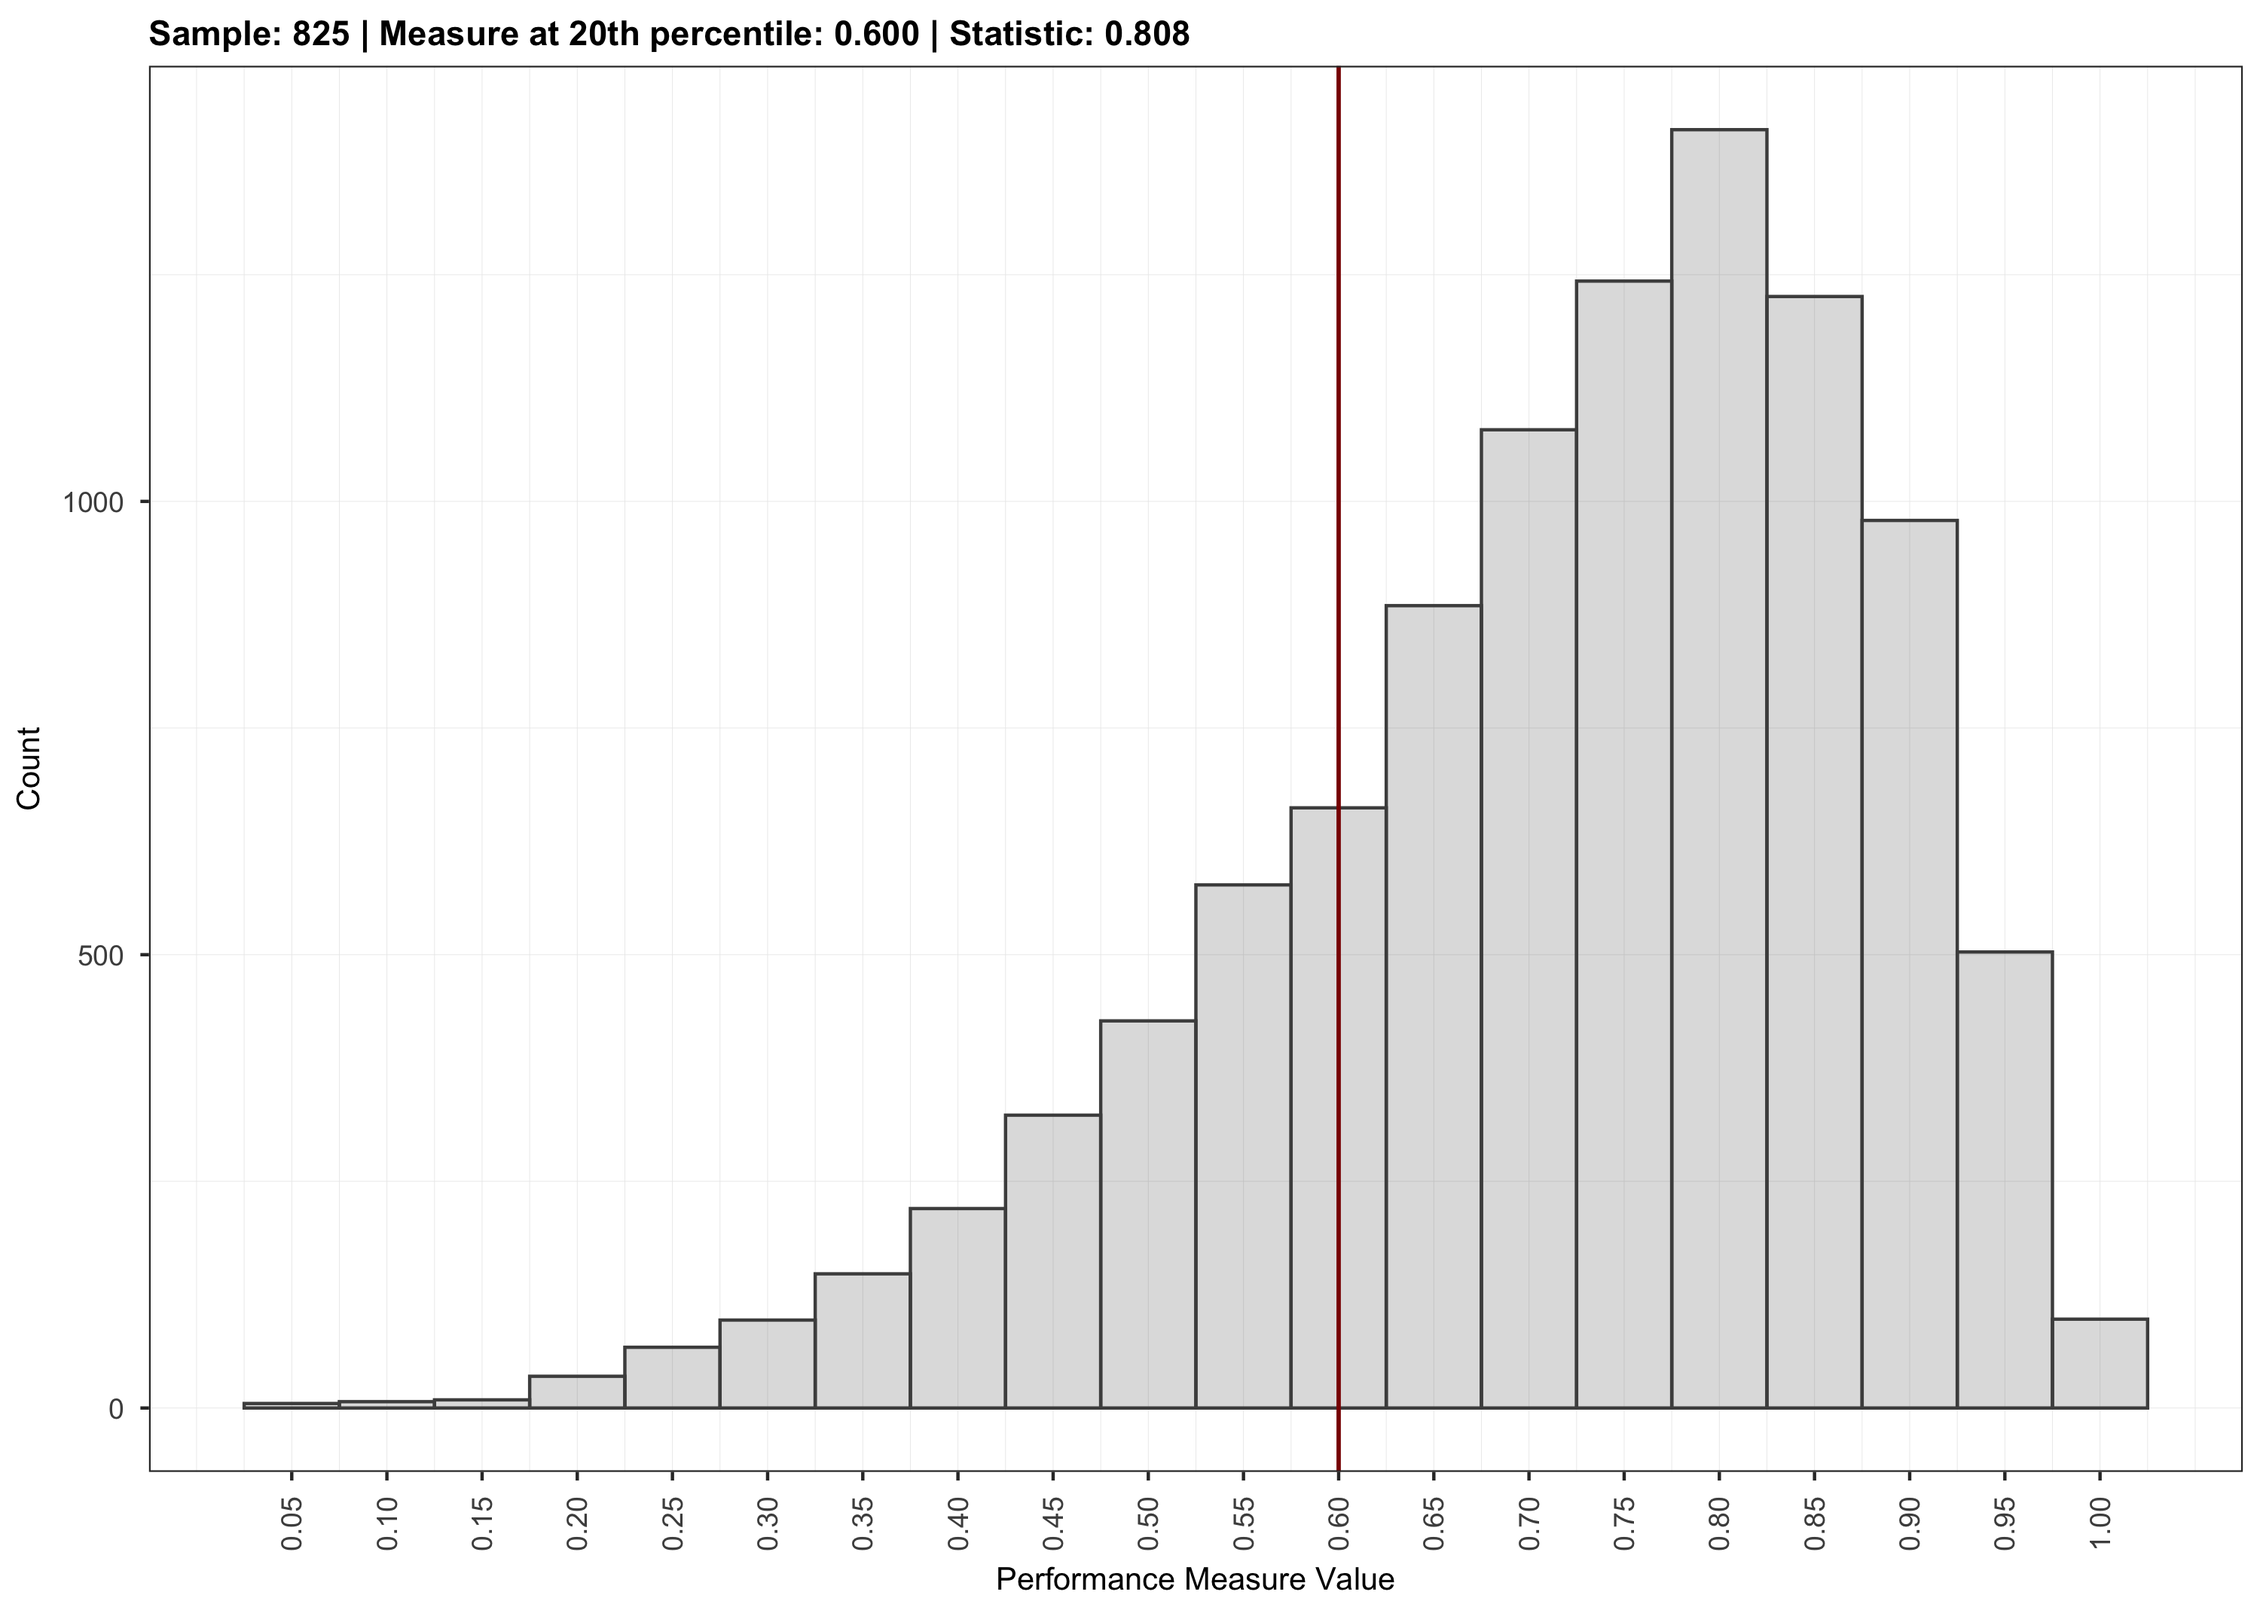
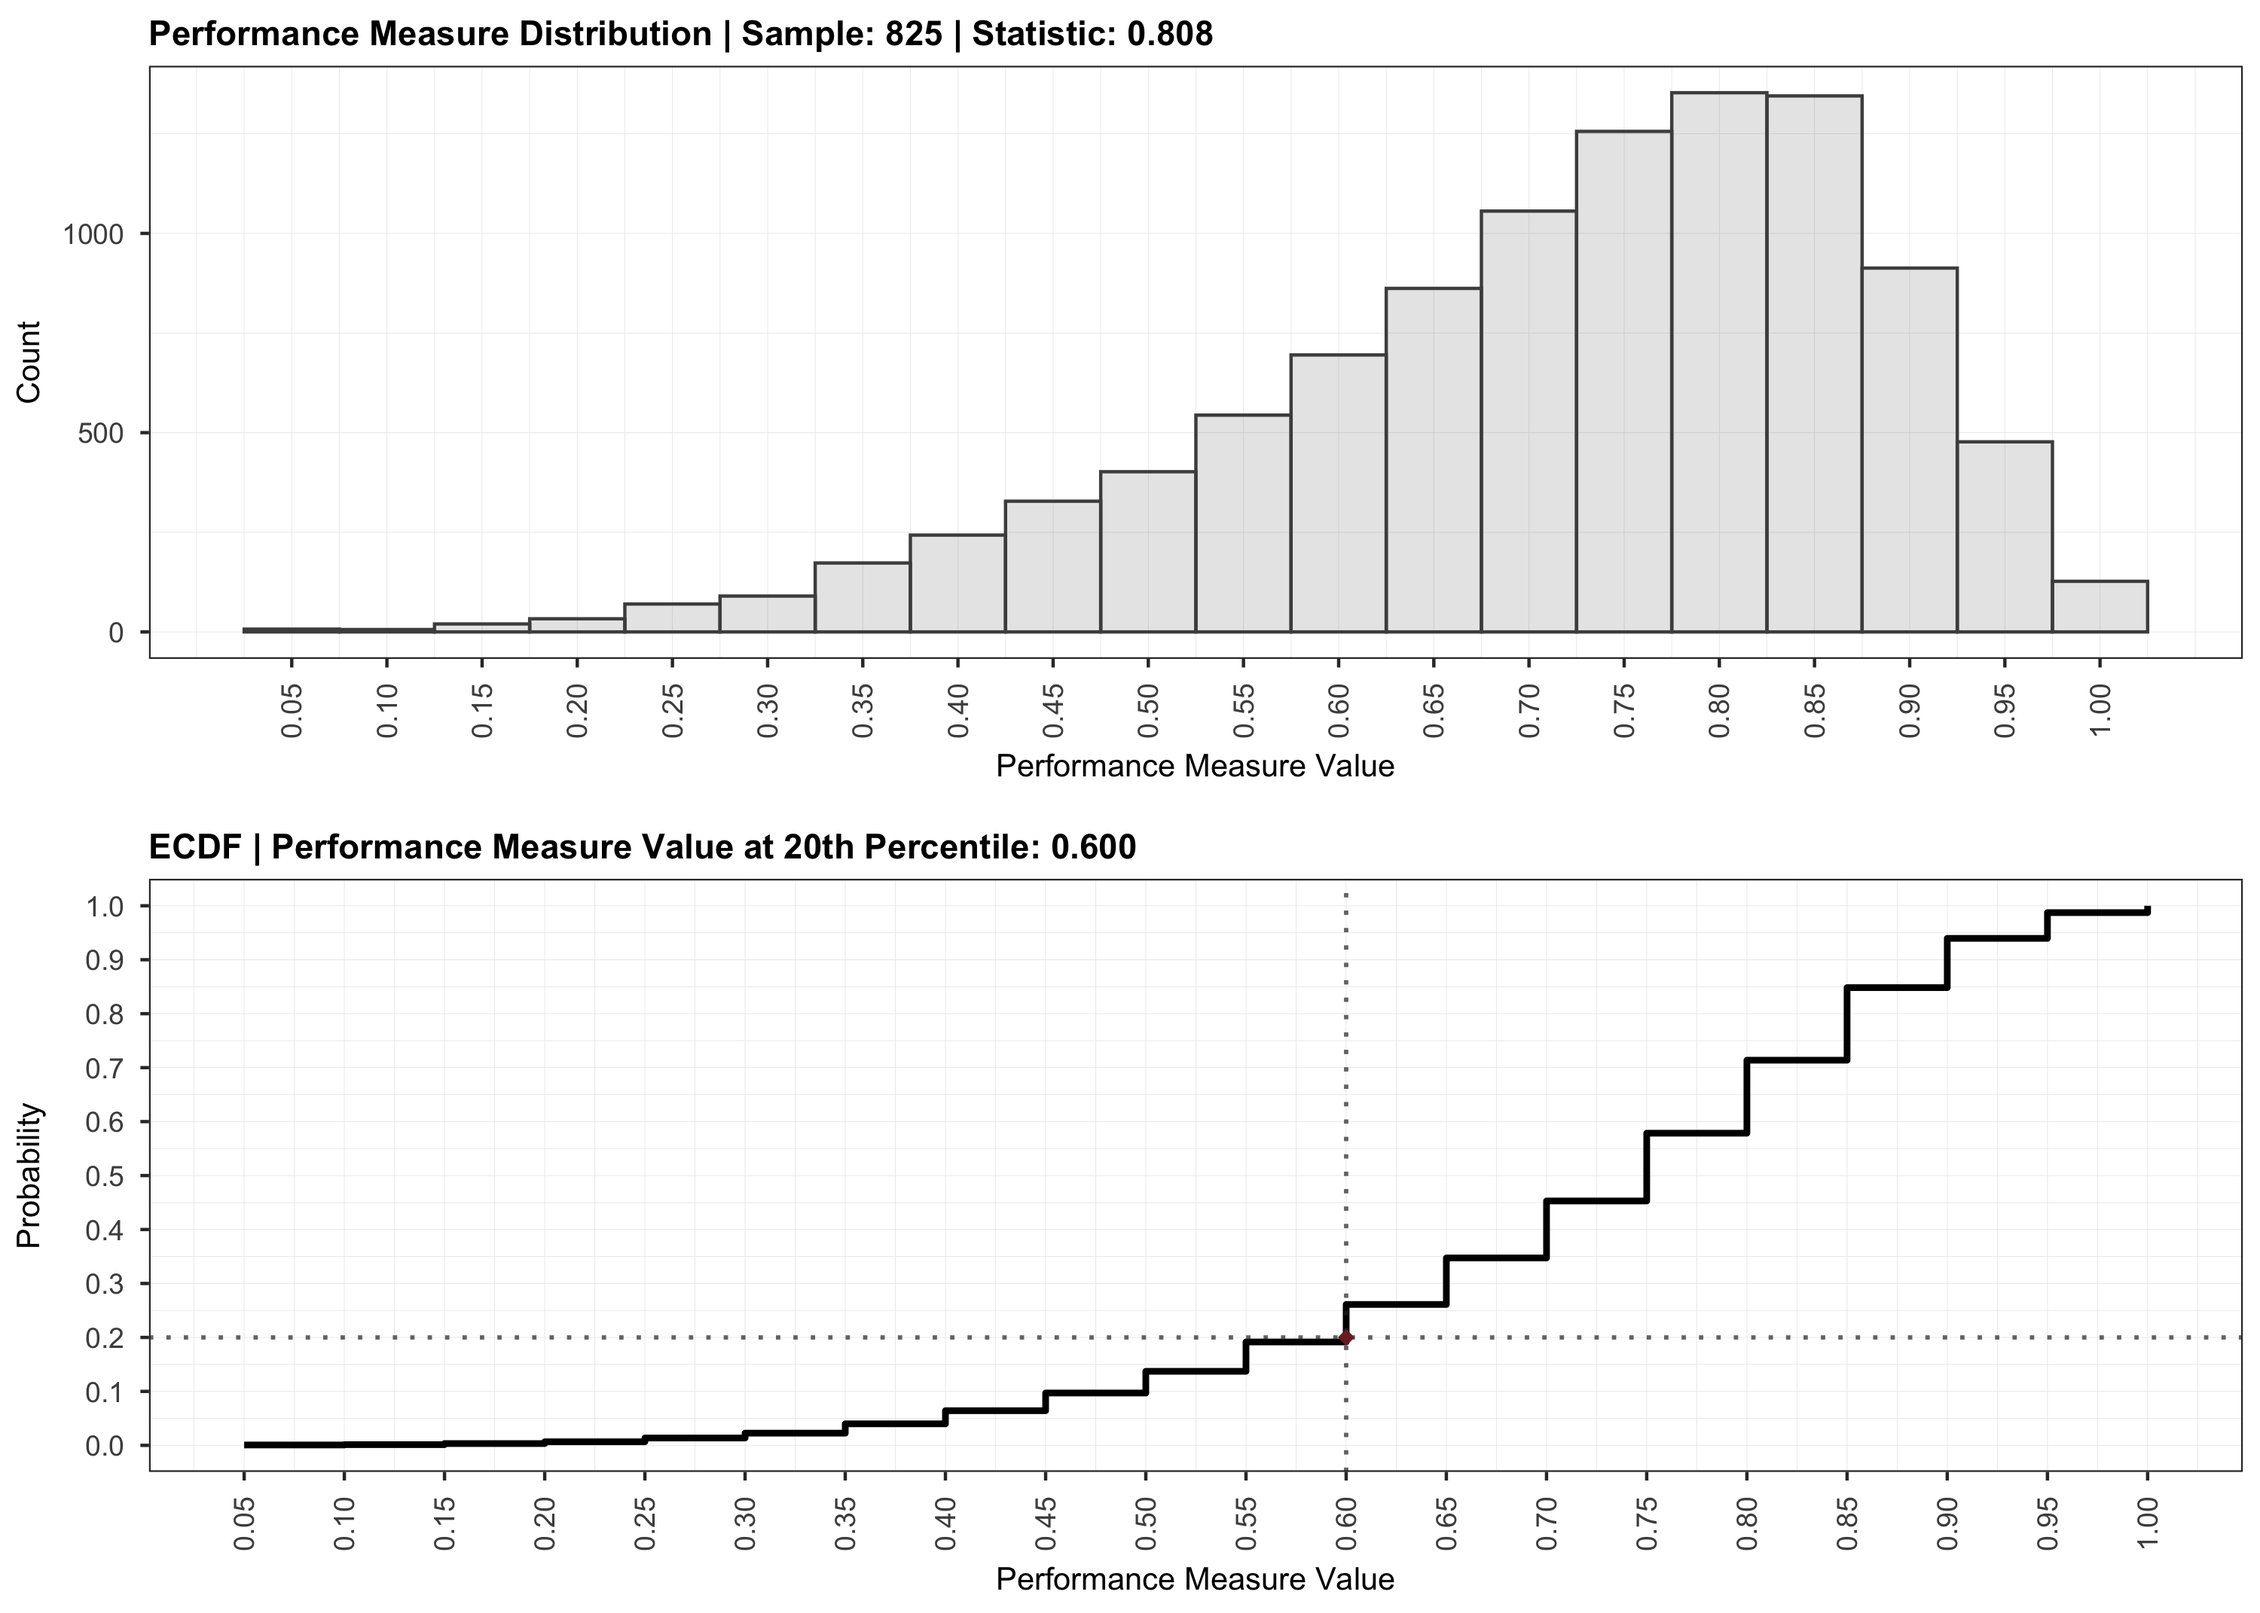
Docs: add new `Validation` plot to `README.md`

diff --git a/NEWS.md b/NEWS.md
@@ -2,6 +2,8 @@
 
 ## Improvements
 
+* Add new `Validation` class plot to `README.md` file.
+
 * Update `GgmModel` tests to vary various model estimation and data generation
   parameters.
 
